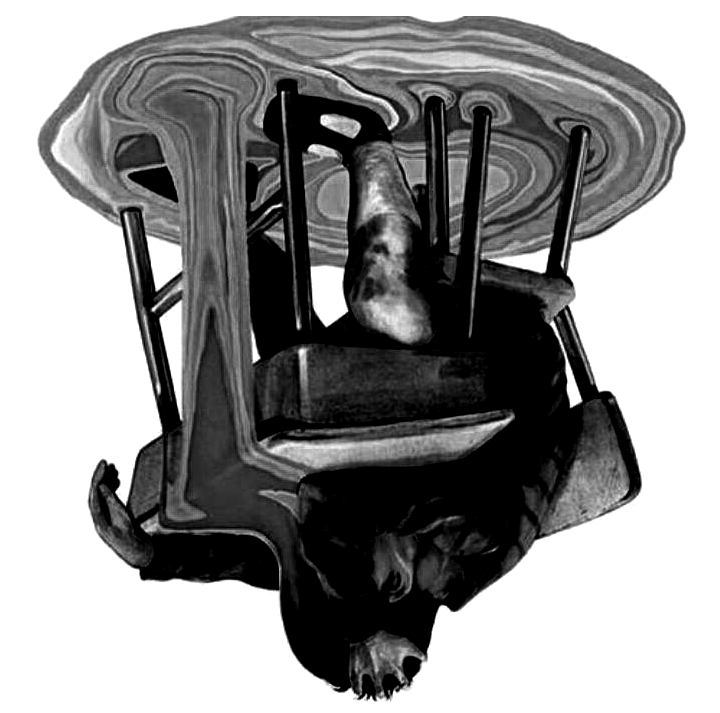
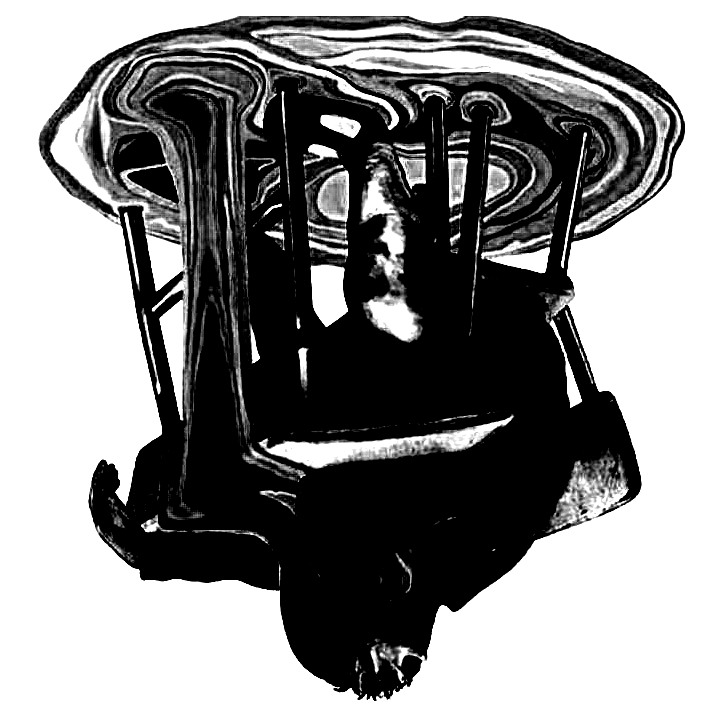
example

diff --git a/README.md b/README.md
@@ -19,6 +19,14 @@ Options:
   --output <filename> - output name, defaults to 'output.png'
 ```
 
+Example:
+```
+stack exec picedit -- dreamboy.jpg --grayscale --contrast 180 --gamma 2 --rotate 180
+```
+
+![dreamboy](https://github.com/mdibaiee/picedit/blob/master/dreamboy.jpg?raw=true)
+![output](https://github.com/mdibaiee/picedit/blob/master/output.png?raw=true)
+
 Library
 -------
 [Documentation available at hackage](https://hackage.haskell.org/package/picedit-0.1.0.0/docs/Data-Picture.html)
